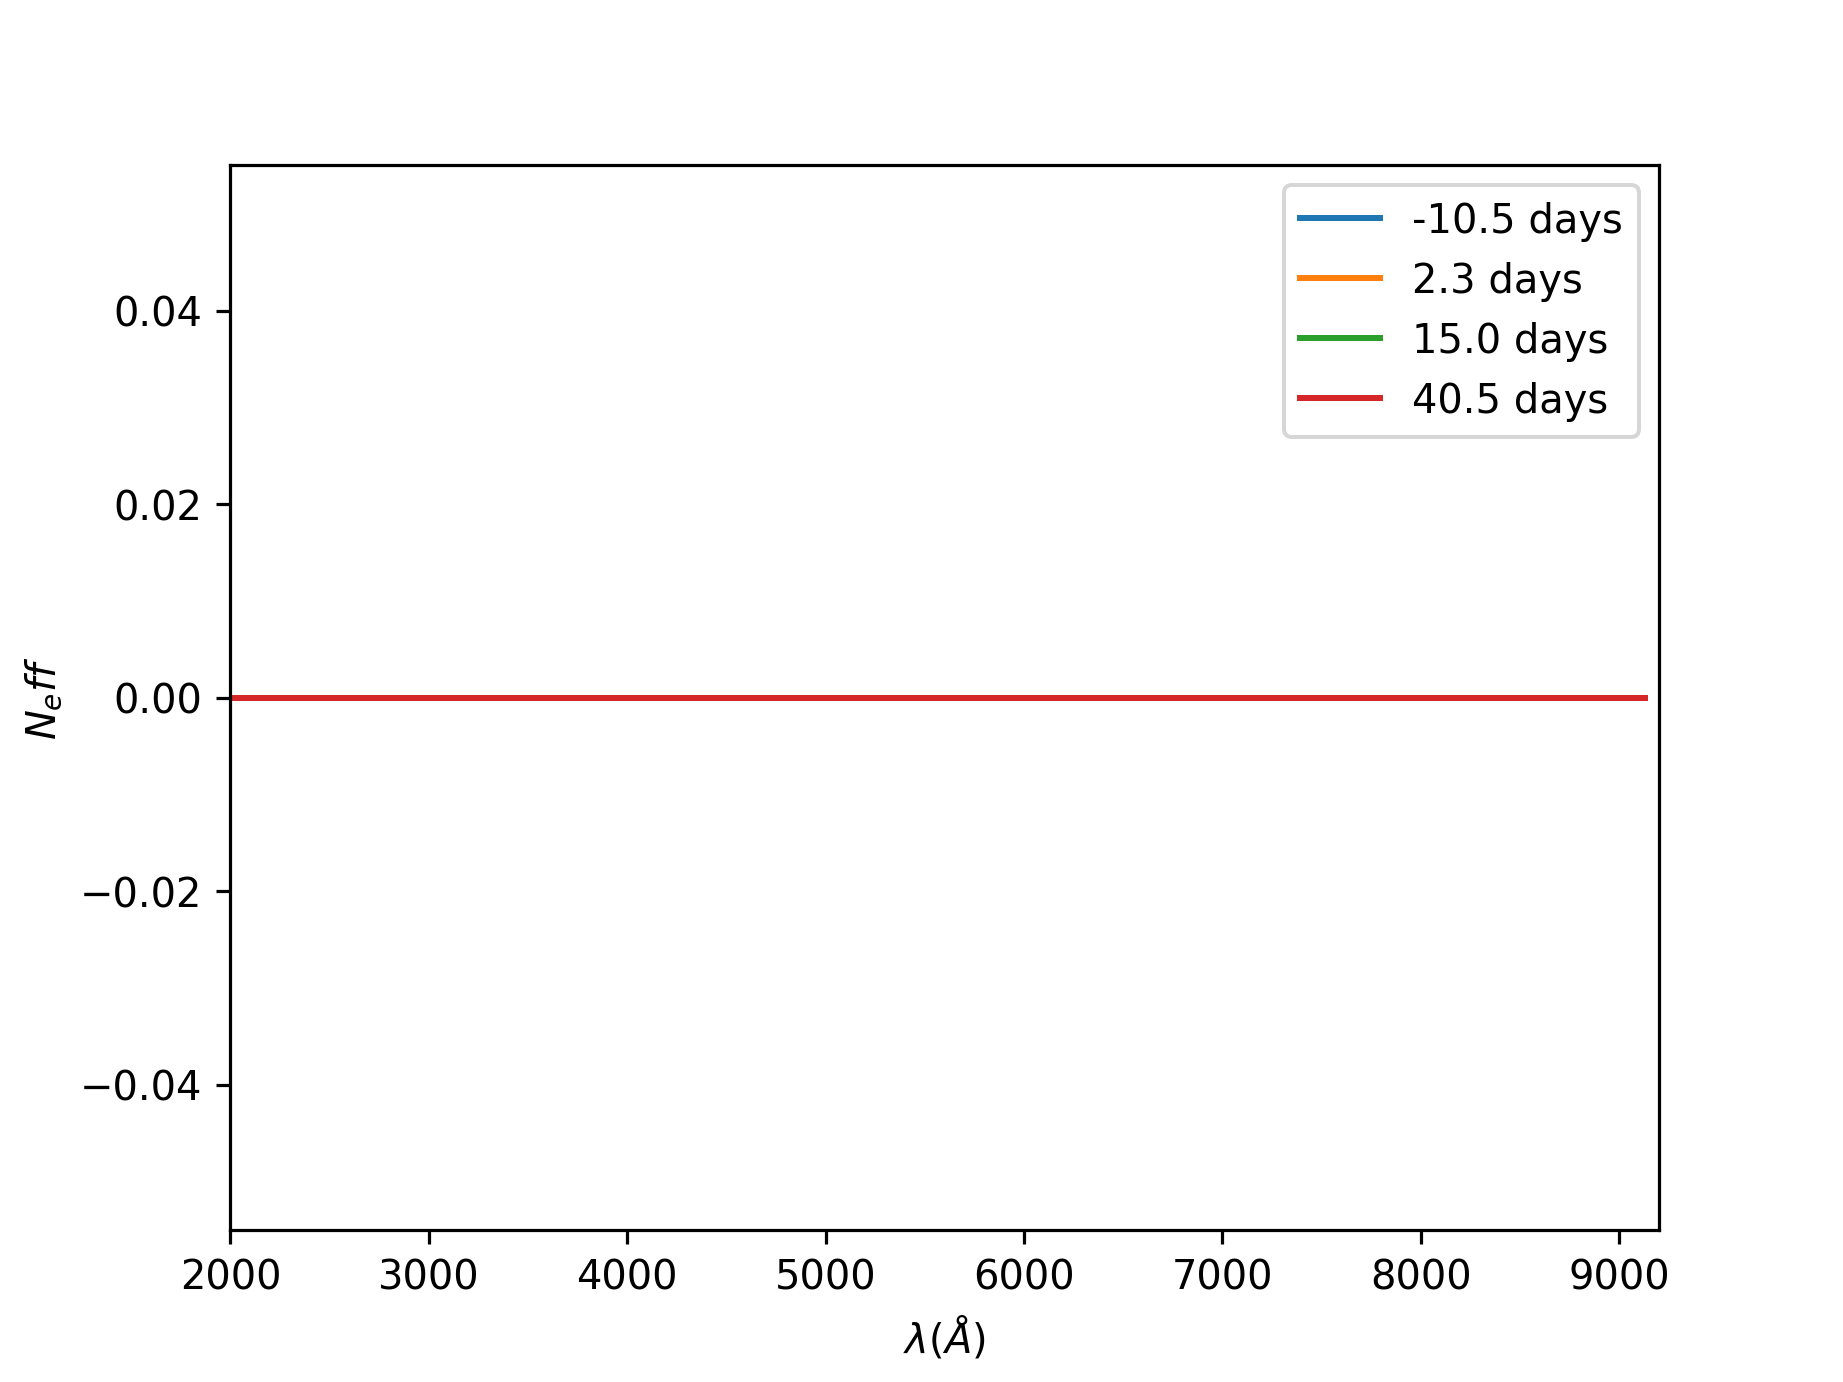
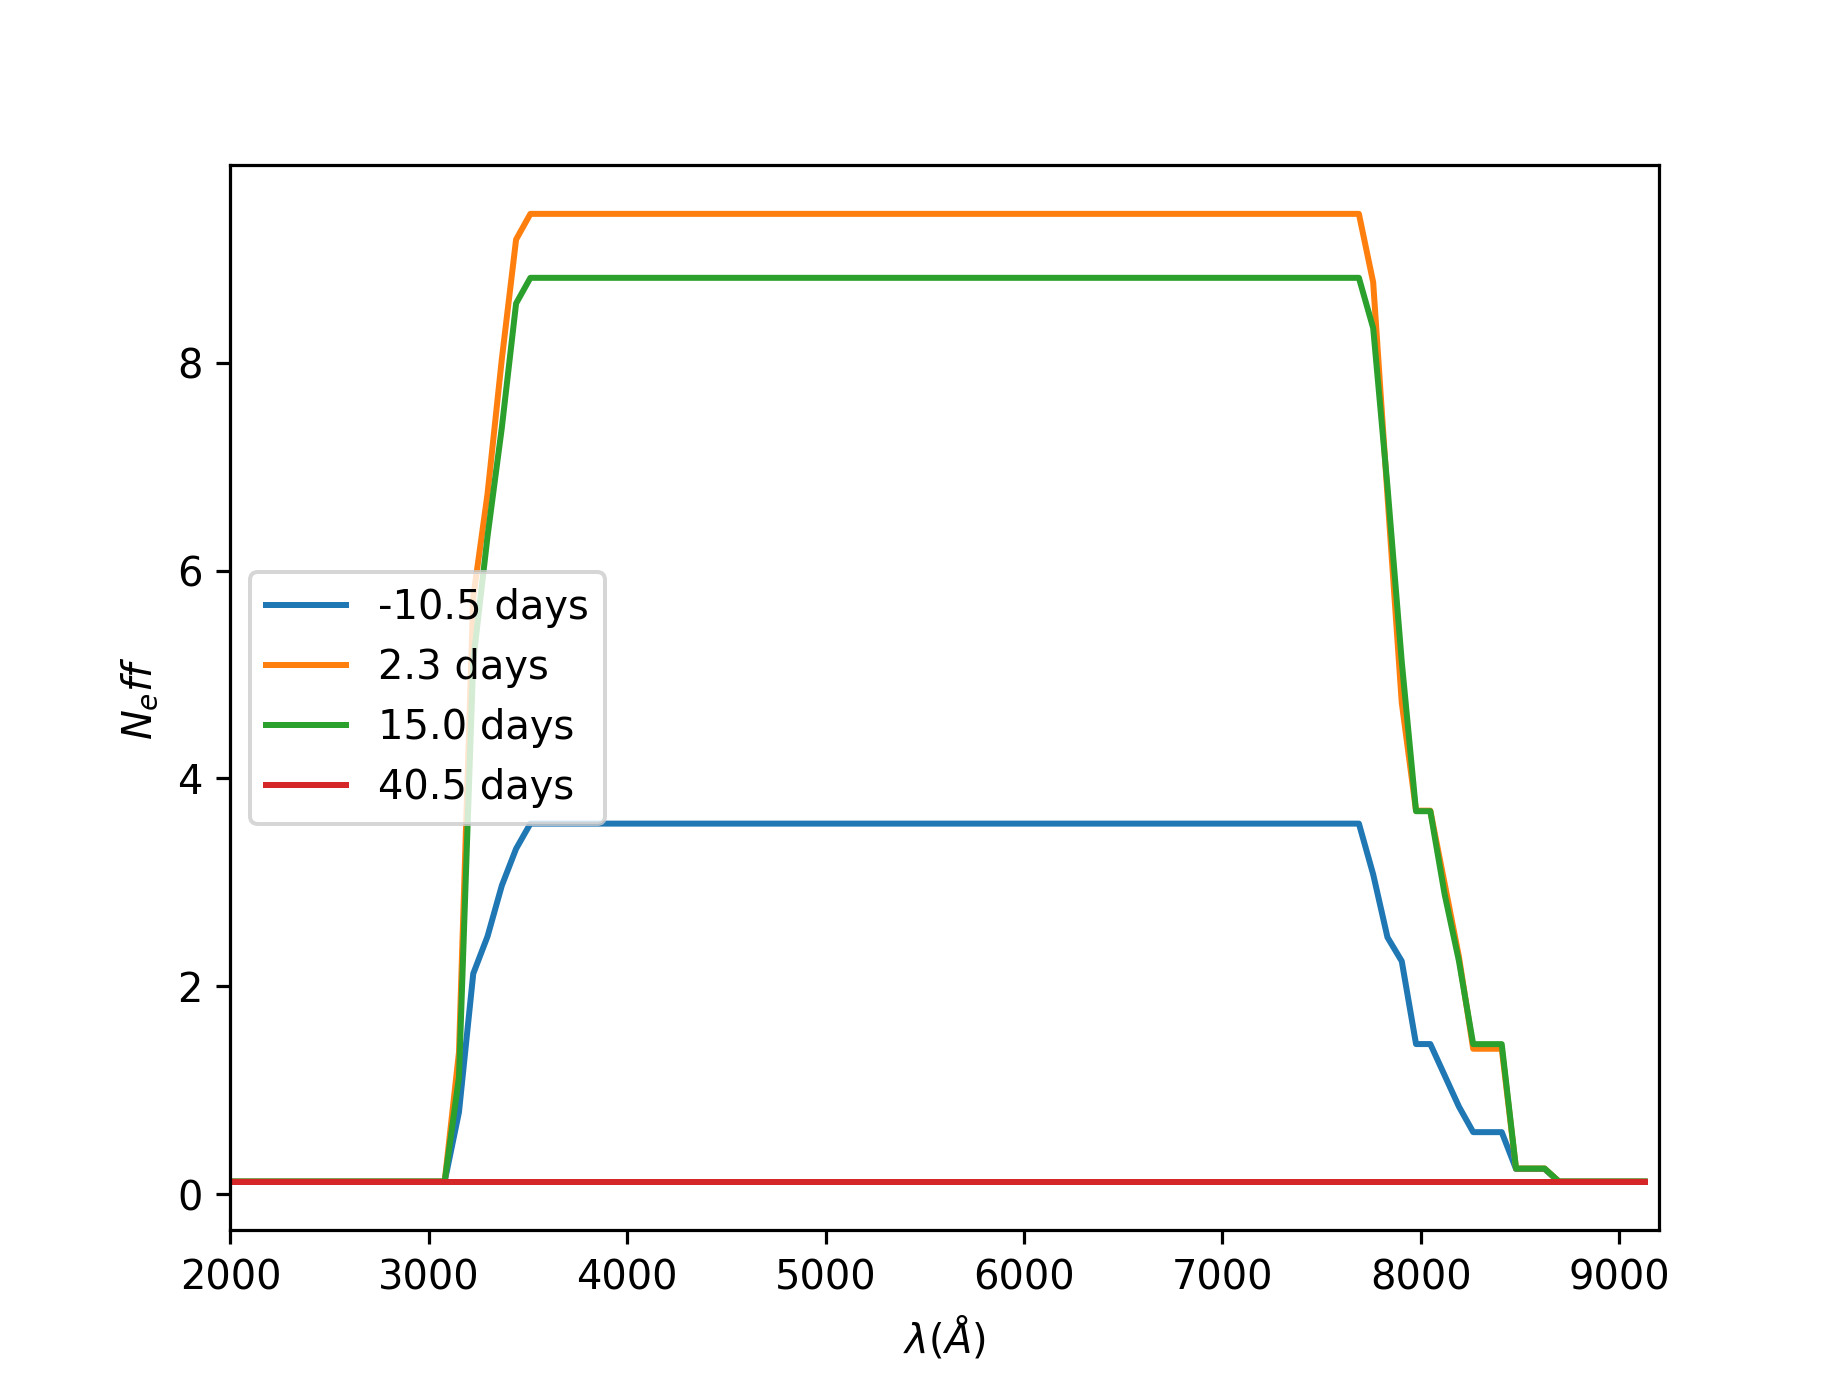
Fixed analytic derivative of color law

diff --git a/salt3/training/saltfit.py b/salt3/training/saltfit.py
@@ -535,13 +535,8 @@ class loglike:
 				
 				# color law
 				for i in range(self.n_colorpars):
-					#dcolorlaw_dcli = SALT2ColorLaw(self.colorwaverange, np.arange(self.n_colorpars)==i)
-					#specresultsdict['dmodelflux_dcl'][iSpecStart:iSpecStart+SpecLen,i] = modulatedFlux*-0.4*np.log(10)*c*dcolorlaw_dcli(specdata[k]['wavelength']/(1+z))
-					x[self.iCL[i]] += 1e-7
-					colorlawtmp = SALT2ColorLaw(self.colorwaverange, x[self.iCL])
-					modelfluxtmp = modulatedFlux/10**(-0.4 * c * colorLaw(specdata[k]['wavelength']/(1+z)))*10.**(-0.4 * colorlawtmp(specdata[k]['wavelength']/(1+z)) * c)
-					x[self.iCL[i]] -= 1e-7
-					specresultsdict['dmodelflux_dcl'][iSpecStart:iSpecStart+SpecLen,i] = (modelfluxtmp-modulatedFlux)/1e-7
+					dcolorlaw_dcli = SALT2ColorLaw(self.colorwaverange, np.arange(self.n_colorpars)==i)(specdata[k]['wavelength']/(1+z))-SALT2ColorLaw(self.colorwaverange, np.zeros(self.n_colorpars))(specdata[k]['wavelength']/(1+z))
+					specresultsdict['dmodelflux_dcl'][iSpecStart:iSpecStart+SpecLen,i] = modulatedFlux*-0.4*np.log(10)*c*dcolorlaw_dcli
 					
 				# M0, M1
 				if self.computePCs:
@@ -637,26 +632,13 @@ class loglike:
 				photresultsdict['dmodelflux_dc'][selectFilter,0]=np.sum((modulatedFlux)*np.log(10)*colorlaw[np.newaxis,idx[flt]], axis=1)*dwave*self.fluxfactor[survey][flt]
 				#empderiv = np.sum((modulatedFlux/(10. ** (colorlaw * c))*10. ** (colorlaw * (c+0.001)) - modulatedFlux)/1.0e-3, axis=1)*dwave*self.fluxfactor[survey][flt]
 				#import pdb; pdb.set_trace()
-				if sn=='5999406': import pdb;pdb.set_trace()
 				
 				for i in range(self.n_colorpars):
 					#Color law is linear wrt to the color law parameters; therefore derivative of the color law
-					# with respect to color law parameter i is the color law with all other values zeroed
-					x[self.iCL[i]] += 1e-7
-					colorlawtmp = SALT2ColorLaw(self.colorwaverange, x[self.iCL])
-					modelsynM0fluxtmp=np.sum(modulatedM0/colorexp*10.**(-0.4 * colorlawtmp(self.wave) * c), axis=1)*dwave*self.fluxfactor[survey][flt]
-					modelsynM1fluxtmp=np.sum(modulatedM1/colorexp*10.**(-0.4 * colorlawtmp(self.wave) * c), axis=1)*dwave*self.fluxfactor[survey][flt]
-					modelfluxtmp = x0* (modelsynM0fluxtmp+ x1*modelsynM1fluxtmp)
-
-					#dcolorlaw_dcli = SALT2ColorLaw(self.colorwaverange, np.arange(self.n_colorpars)==i)
+					# with respect to color law parameter i is the color law with all other values zeroed minus the color law with all values zeroed
+					dcolorlaw_dcli = SALT2ColorLaw(self.colorwaverange, np.arange(self.n_colorpars)==i)(self.wave[idx[flt]])-SALT2ColorLaw(self.colorwaverange, np.zeros(self.n_colorpars))(self.wave[idx[flt]])
 					#Multiply M0 and M1 components (already modulated with passband) by c* d colorlaw / d cl_i, with associated normalizations
-					#photresultsdict['dmodelflux_dcl'][selectFilter,i] = np.sum((modulatedFlux)*-0.4*np.log(10)*c*dcolorlaw_dcli(self.wave[idx[flt]])[np.newaxis,:], axis=1)*dwave*self.fluxfactor[survey][flt]
-
-					deriv = (modelfluxtmp - modelflux)/1e-7
-					photresultsdict['dmodelflux_dcl'][selectFilter,i] = deriv
-					#self.datadict[sn]['specdata'][k]['colorlawderiv'][:,i] = (modelfluxtmp-saltfluxinterp)/1e-3/np.sqrt(specvar)
-					x[self.iCL[i]] -= 1e-7
-
+					photresultsdict['dmodelflux_dcl'][selectFilter,i] = np.sum((modulatedFlux)*-0.4*np.log(10)*c*dcolorlaw_dcli[np.newaxis,:], axis=1)*dwave*self.fluxfactor[survey][flt]
 					
 				if self.computePCs:
 					passbandColorExp=pbspl[flt]*colorexp[idx[flt]]
